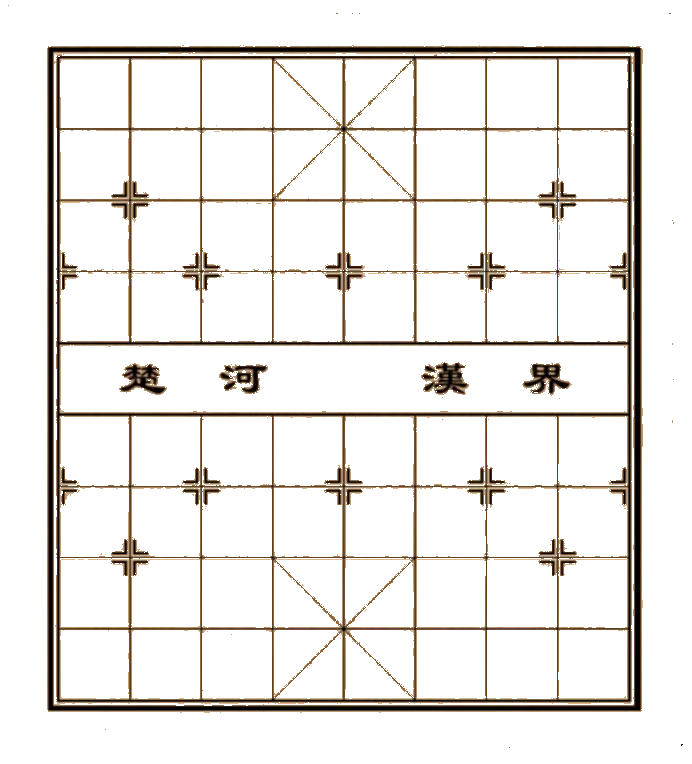
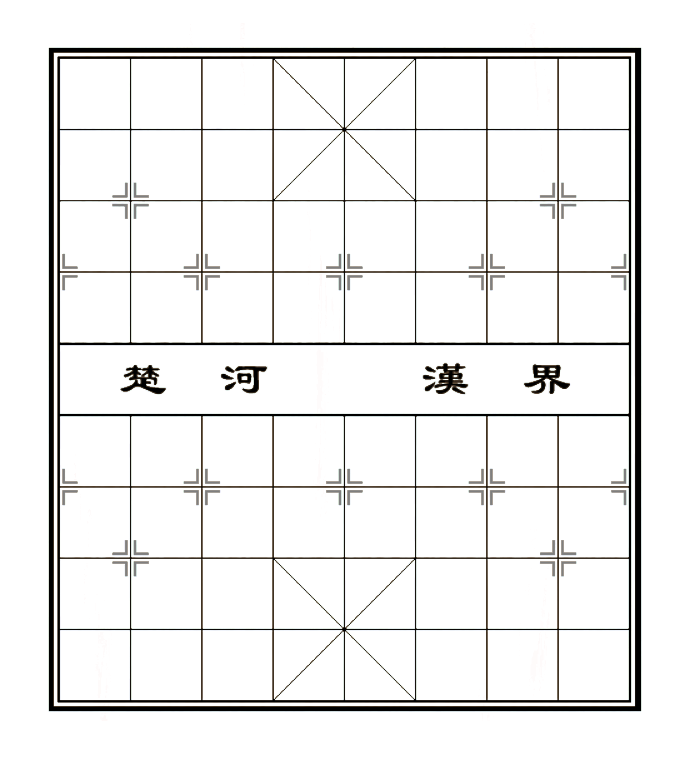
完善了中国项目小游戏模块： 棋盘坐标点箭头颜色调浅。

Changed region(s): [[0.0607, 0.0602, 0.9408, 0.9332], [0.3642, 0.6322, 0.4249, 0.6623], [0.789, 0.6322, 0.8194, 0.6623]]

diff --git a/xechat-plugin/src/main/java/cn/xeblog/plugin/game/chess/GamePanel.java b/xechat-plugin/src/main/java/cn/xeblog/plugin/game/chess/GamePanel.java
@@ -179,7 +179,7 @@ public class GamePanel extends JPanel implements MouseListener, MouseMotionListe
 	{
 		try
 		{
-			URL resource = this.getClass().getResource("/images/chess/fish/chessboard2.png");
+			URL resource = this.getClass().getResource("/images/chess/chessboard3.png");
 			ImageIcon chessboard = new ImageIcon(resource);
 			//棋盘图片
 			this.imageIconChessBoard = new ImageIcon(chessboard.getImage().getScaledInstance(this.panelChess.getWidth(),this.panelChess.getHeight(), Image.SCALE_SMOOTH));	//缩放图片来适应标签大小
